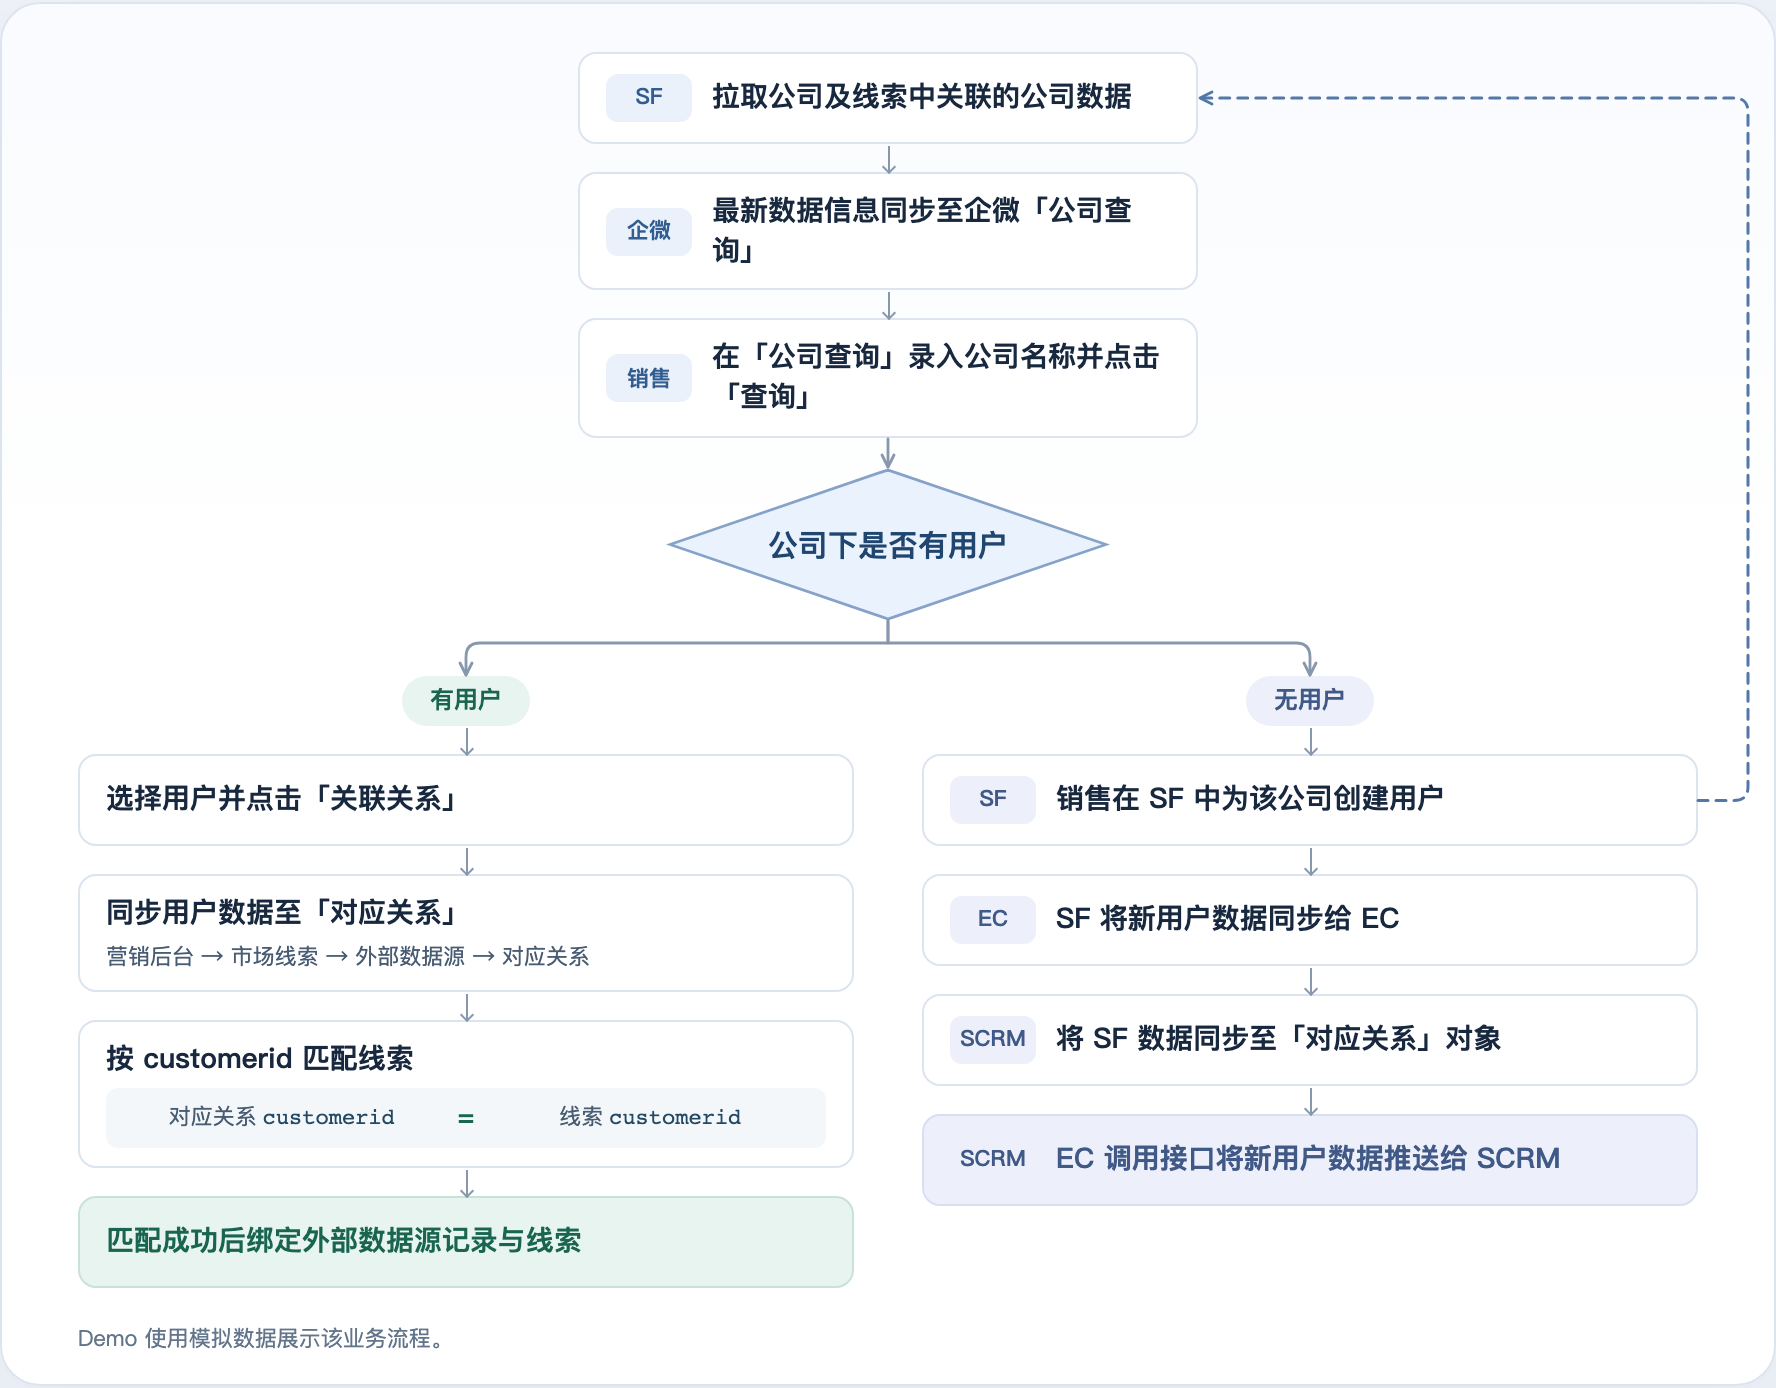
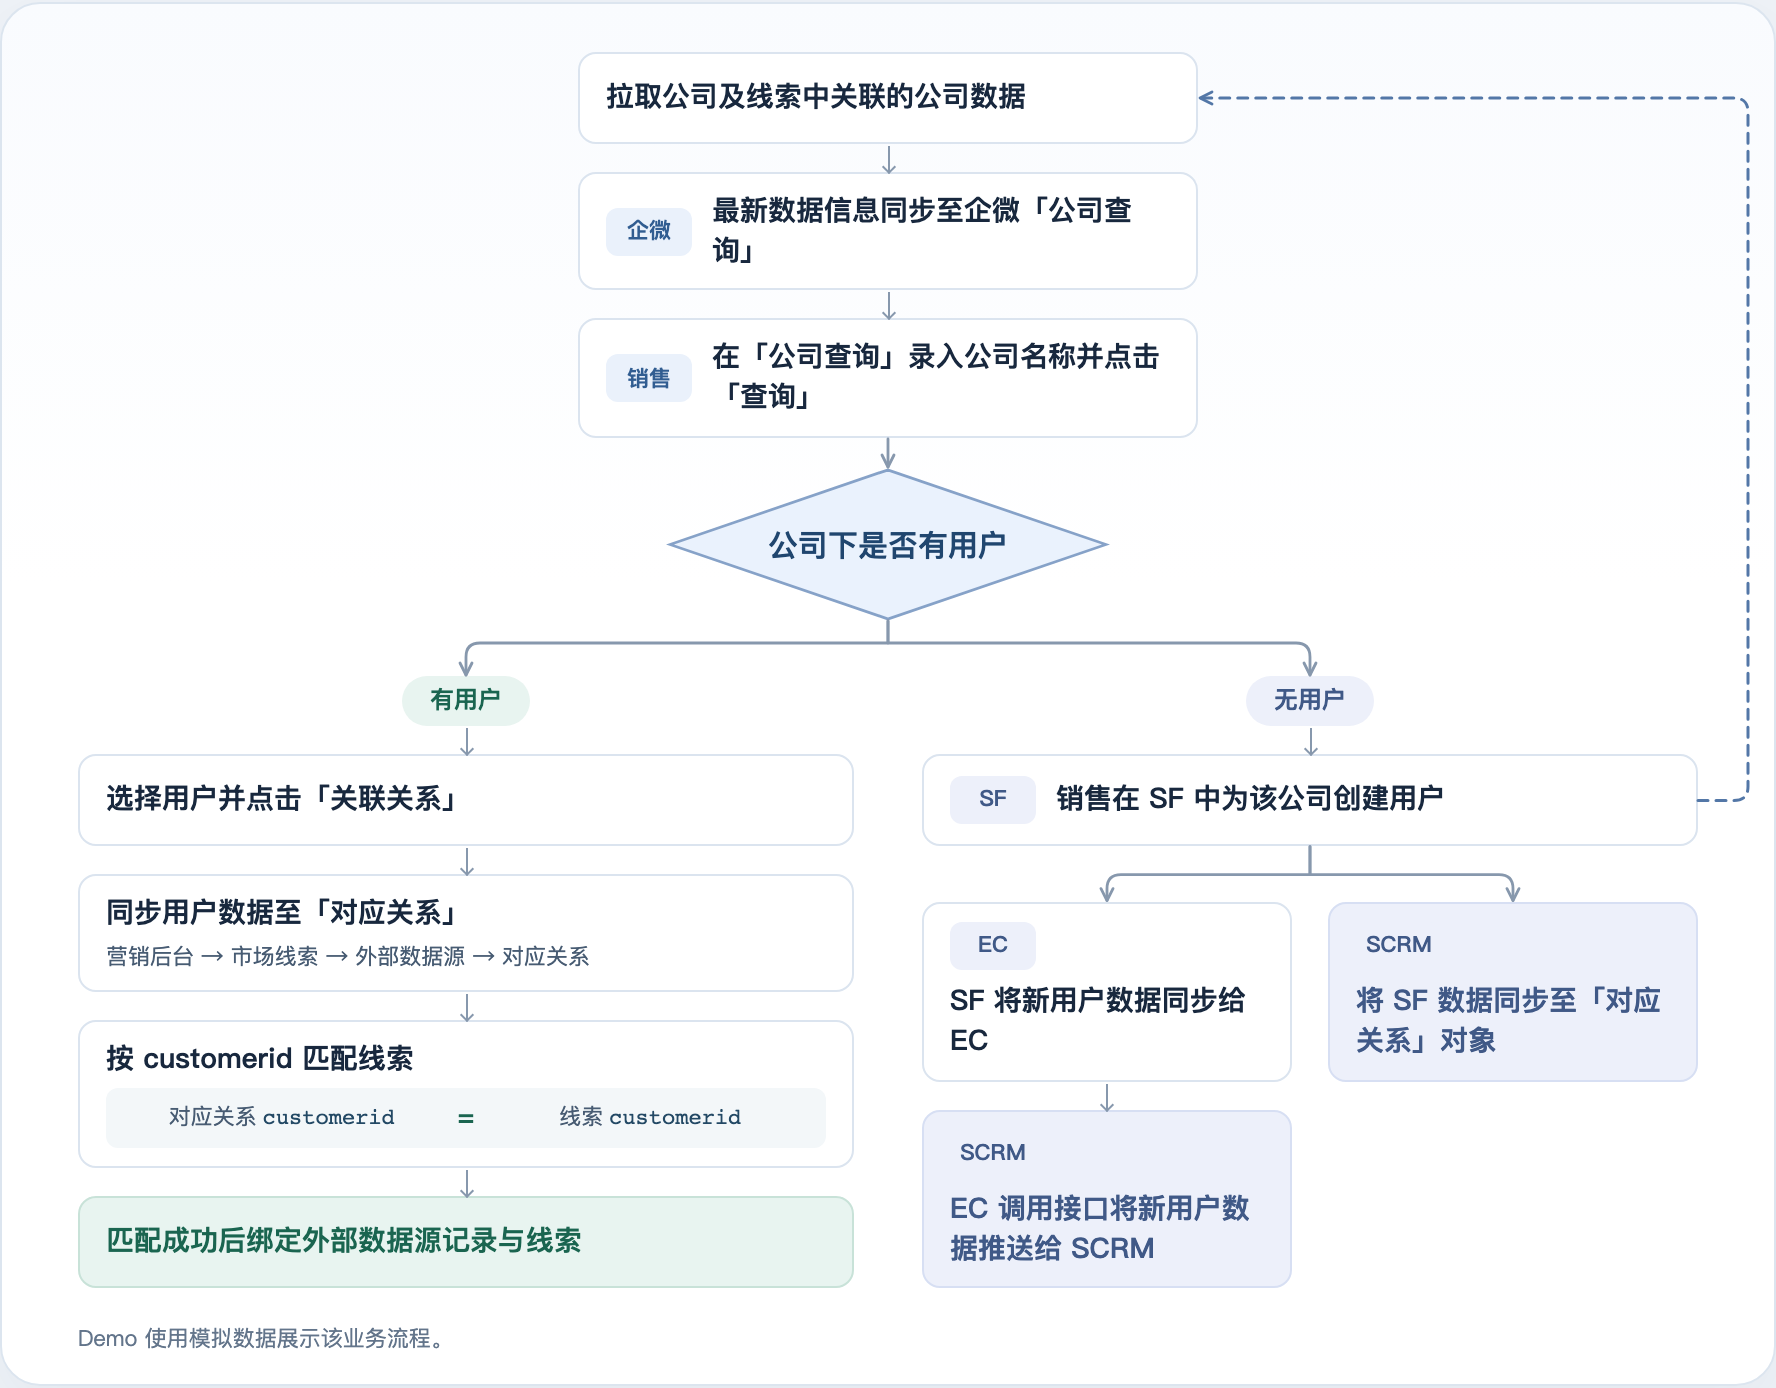
Show EC and SCRM sync in parallel and remove the top SF label

diff --git a/index.html b/index.html
@@ -287,6 +287,11 @@
       font-weight: 750;
     }
     .flow-trunk .flow-step, .flow-branch.missing .flow-step { grid-template-columns: 43px minmax(0, 1fr); align-items: center; column-gap: 10px; }
+    #flow-company-pull { grid-template-columns: minmax(0, 1fr); }
+    .flow-parallel { display: grid; grid-template-columns: repeat(2, minmax(0, 1fr)); align-items: start; gap: 18px; padding-top: 28px; }
+    .flow-branch.missing .flow-parallel .flow-step { grid-template-columns: minmax(0, 1fr); align-content: start; gap: 6px; }
+    .flow-parallel .flow-system { justify-self: start; min-width: 43px; }
+    .flow-parallel .flow-step:first-child::before, .flow-parallel .flow-step:first-child::after { content: none; }
     .flow-question {
       position: relative;
       display: grid;
@@ -487,7 +492,7 @@
       </header>
       <figure class="flow-board" aria-label="SF、企微、外部数据源、线索、EC 与 SCRM 的数据流转">
         <ol class="flow-steps flow-trunk" aria-label="同步与查询">
-          <li class="flow-step" id="flow-sf-pull"><span class="flow-system">SF</span><strong>拉取公司及线索中关联的公司数据</strong></li>
+          <li class="flow-step" id="flow-company-pull"><strong>拉取公司及线索中关联的公司数据</strong></li>
           <li class="flow-step"><span class="flow-system">企微</span><strong>最新数据信息同步至企微「公司查询」</strong></li>
           <li class="flow-step" id="flow-query"><span class="flow-system">销售</span><strong>在「公司查询」录入公司名称并点击「查询」</strong></li>
         </ol>
@@ -512,11 +517,17 @@
           <section class="flow-branch missing" aria-labelledby="flow-no-users">
             <h2 id="flow-no-users">无用户</h2>
             <ol class="flow-steps">
-              <li class="flow-step" id="flow-sf-create"><span class="flow-system">SF</span><strong>销售在 SF 中为该公司创建用户</strong><span class="sr-only">创建后回到从 SF 拉取公司及线索中关联的公司数据的步骤。</span></li>
-              <li class="flow-step"><span class="flow-system">EC</span><strong>SF 将新用户数据同步给 EC</strong></li>
-              <li class="flow-step"><span class="flow-system">SCRM</span><strong>将 SF 数据同步至「对应关系」对象</strong></li>
-              <li class="flow-step flow-end"><span class="flow-system">SCRM</span><strong>EC 调用接口将新用户数据推送给 SCRM</strong></li>
+              <li class="flow-step" id="flow-sf-create"><span class="flow-system">SF</span><strong>销售在 SF 中为该公司创建用户</strong><span class="sr-only">创建后重新拉取公司及线索中关联的公司数据。</span></li>
             </ol>
+            <div class="flow-parallel" role="group" aria-label="创建用户后并行同步至 EC 和 SCRM 对应关系">
+              <ol class="flow-steps" aria-label="同步至 EC 后推送给 SCRM">
+                <li class="flow-step" id="flow-ec-sync"><span class="flow-system">EC</span><strong>SF 将新用户数据同步给 EC</strong></li>
+                <li class="flow-step flow-end"><span class="flow-system">SCRM</span><strong>EC 调用接口将新用户数据推送给 SCRM</strong></li>
+              </ol>
+              <ol class="flow-steps" aria-label="SCRM 同步对应关系">
+                <li class="flow-step flow-end" id="flow-scrm-sync"><span class="flow-system">SCRM</span><strong>将 SF 数据同步至「对应关系」对象</strong></li>
+              </ol>
+            </div>
           </section>
         </div>
         <svg class="flow-connections" aria-hidden="true" fill="none" stroke="currentColor" stroke-width="1.4" stroke-linecap="round" stroke-linejoin="round">
@@ -532,6 +543,8 @@
           <path id="flow-query-arrow" marker-end="url(#flow-tip)"/>
           <path id="flow-has-users-arrow" marker-end="url(#flow-tip)"/>
           <path id="flow-no-users-arrow" marker-end="url(#flow-tip)"/>
+          <path id="flow-ec-sync-arrow" marker-end="url(#flow-tip)"/>
+          <path id="flow-scrm-sync-arrow" marker-end="url(#flow-tip)"/>
           <path class="flow-return" id="flow-return-arrow" stroke-width="1.5" marker-end="url(#flow-return-tip)"/>
         </svg>
         <figcaption>Demo 使用模拟数据展示该业务流程。</figcaption>
@@ -1037,7 +1050,11 @@
         { label: $("#flow-no-users"), arrow: $("#flow-no-users-arrow") }
       ];
       const sfCreateStep = $("#flow-sf-create");
-      const sfPullStep = $("#flow-sf-pull");
+      const companyPullStep = $("#flow-company-pull");
+      const syncConnections = [
+        { step: $("#flow-ec-sync"), arrow: $("#flow-ec-sync-arrow") },
+        { step: $("#flow-scrm-sync"), arrow: $("#flow-scrm-sync-arrow") }
+      ];
       const queryStep = $("#flow-query");
       const questionStep = $("#flow-question");
       new ResizeObserver(() => {
@@ -1049,7 +1066,7 @@
           const top = rect.top - canvas.top;
           return { left, top, right: left + rect.width, bottom: top + rect.height, x: left + rect.width / 2, y: top + rect.height / 2 };
         };
-        const pull = bounds(sfPullStep);
+        const pull = bounds(companyPullStep);
         const create = bounds(sfCreateStep);
         const query = bounds(queryStep);
         const question = bounds(questionStep);
@@ -1065,6 +1082,12 @@
           `H ${pull.right + 1}`
         ].join(" "));
         queryArrow.setAttribute("d", `M ${question.x} ${query.bottom} V ${question.top - 1}`);
+        syncConnections.forEach(({ step, arrow }, index) => {
+          const target = bounds(step);
+          const bend = create.bottom + 14;
+          const direction = index === 0 ? -1 : 1;
+          arrow.setAttribute("d", `M ${create.x} ${create.bottom} V ${bend} H ${target.x - direction * radius} Q ${target.x} ${bend} ${target.x} ${bend + radius} V ${target.top - 1}`);
+        });
         branchConnections.forEach(({ label, arrow }, index) => {
           const branch = bounds(label);
           const direction = index === 0 ? -1 : 1;

diff --git a/README.md b/README.md
@@ -14,7 +14,7 @@
 2. 在「公司查询」录入公司名称，点击「查询」。
 3. 判断公司下是否有用户：
    - 有用户：选择用户并点击「关联关系」，同步用户数据至「对应关系」，按 `对应关系.customerid = 线索.customerid` 匹配线索。
-   - 无用户：销售在 SF 中创建用户 → SF 将数据同步给 EC → SCRM 将 SF 数据同步至「对应关系」对象 → EC 调用接口将新用户数据推送给 SCRM。
+   - 无用户：销售在 SF 中创建用户后，同时执行两条并行流程：SF 将新用户数据同步给 EC，随后 EC 调用接口将新用户数据推送给 SCRM；SCRM 将 SF 数据同步至「对应关系」对象。
 
 「对应关系」入口：营销后台 → 市场线索 → 外部数据源 → 对应关系。
 
